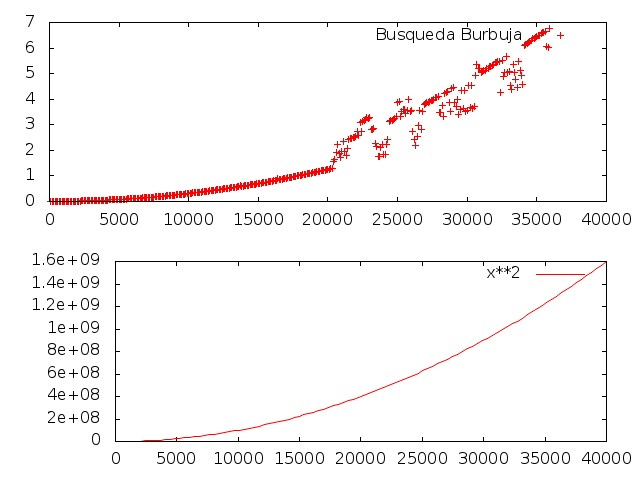
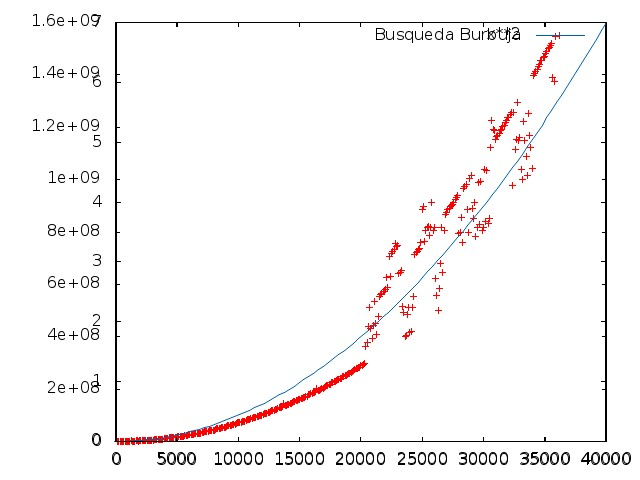
Añadida grafica doble

diff --git a/Practica1/Ejercicio1/README.md b/Practica1/Ejercicio1/README.md
@@ -35,14 +35,16 @@ void ordenar(int *v, int n){
             }
 }
 ```
-Haciendo el calculo de forma simplificada y quedandonos con el orden podemos decir que este algoritmo tiene una eficiencia de 0(n^2), cuadrática, una función tal que así:
+Haciendo el calculo de forma simplificada y quedandonos con el orden podemos decir que este algoritmo tiene una eficiencia de 0(n^2), cuadrática. En la gráfica de la izquierda podemos ver la curva de n cuadrado y a la derecha los tiempos que empiricamente se han obtenido.
 
 ![Imagen 1][1]  ![Imagen 2][2]
 
  [1]: graficaxCuadrado.jpeg
  [2]: graficaSalida.jpeg 
 
-![Sin titulo](graficaDoble.jpeg)
+Si superponemos ambas gŕaficas podemos comparar la eficiencia teórica que hemos calculado que tendrá nuestro algoritmo con el resultado empírico de la ejecución
+
+![Imagen 3](graficaDoble.jpeg)
 
 ######Parámetros usados para el cálculo de la eficiencia empírica y gráfica
 
